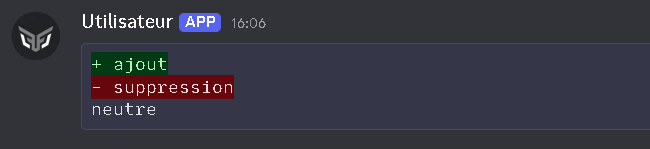
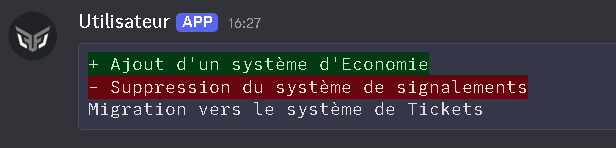
🔄 Replace image: code_diff.png

diff --git a/docs/3.autres/2.markdown.md b/docs/3.autres/2.markdown.md
@@ -116,12 +116,13 @@ ou
 ```
 ![Aperçu d'un code en ligne](../assets/markdown/code_ligne.png)
 
-### Statut d'ajout / suppression
+### Code d'ajout / suppression
 
 **Markdown :**
+```
 ```diff
 + ajout
 - suppression
-neutre
+neutre```
 ```
-![Aperçu d'un diff](../assets/markdown/code_diff.png)
+![Aperçu d'un code en diff](../assets/markdown/code_diff.png)
